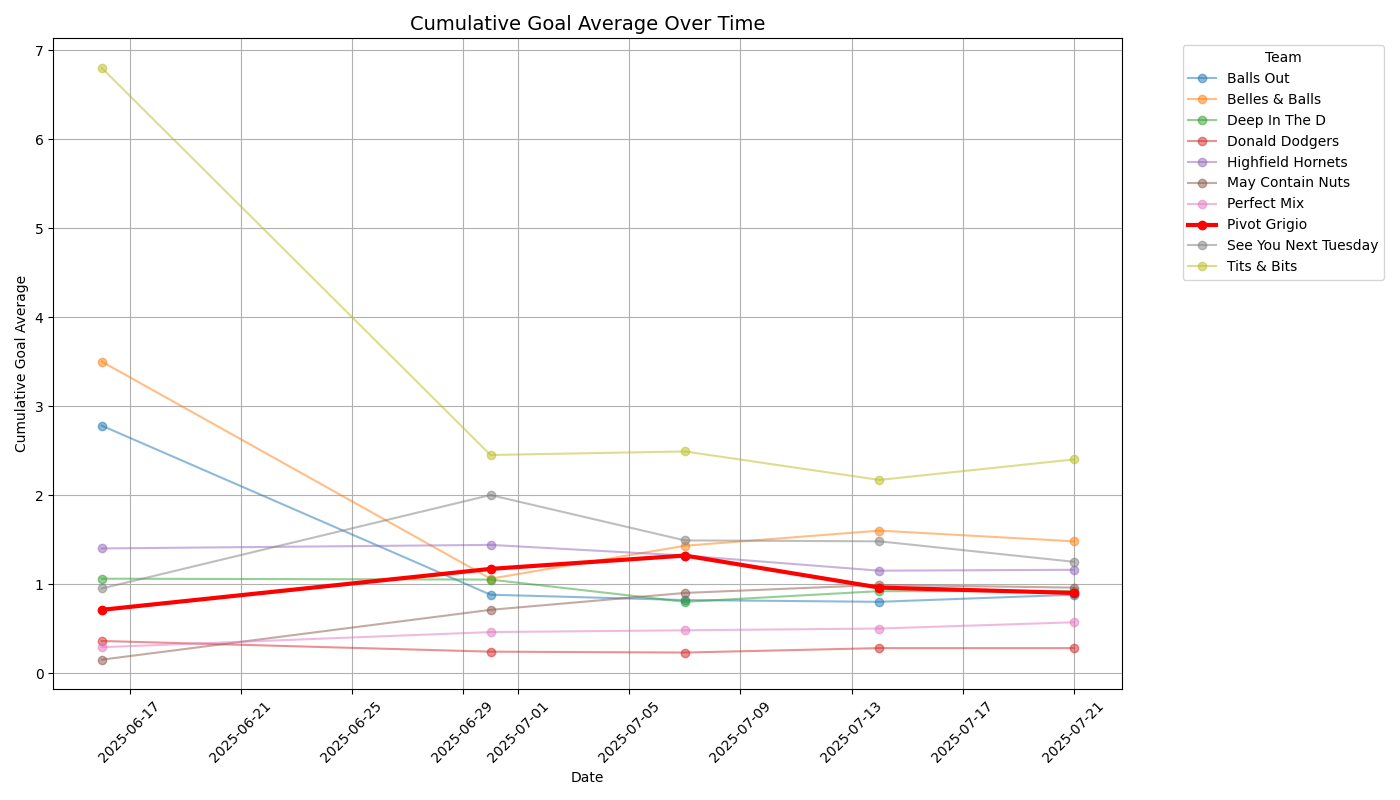
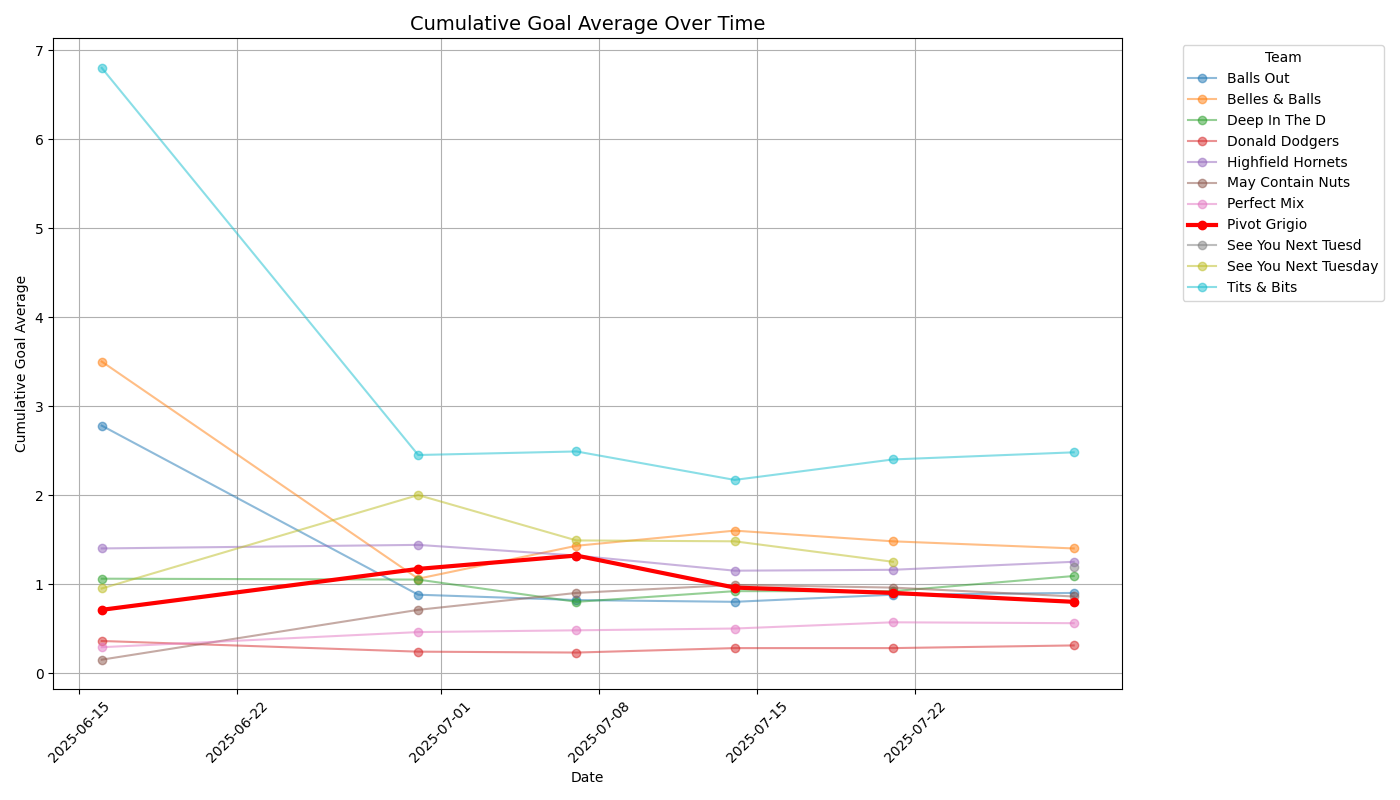
Update with monday results

diff --git a/league_data.py b/league_data.py
@@ -104,11 +104,30 @@ def get_all_league_data() -> pd.DataFrame:
         'Goal average': [2.40, 1.25, 1.16, 1.48, 0.96, 0.92, 0.88, 0.90, 0.57, 0.28],
         'Points': [35, 27, 26, 25, 24, 18, 18, 13, 9, 2]
     }
+    
+    # New data from the provided image (29/07/2025)
+    data6 = {
+        'Position': [1, 2, 3, 4, 5, 6, 7, 8, 9, 10],
+        'Team': ['Tits & Bits', 'Highfield Hornets', 'Belles & Balls', 'See You Next Tuesd',
+                 'Deep In The D', 'May Contain Nuts', 'Balls Out', 'Pivot Grigio',
+                 'Perfect Mix', 'Donald Dodgers'],
+        'Played': [8, 8, 8, 8, 8, 8, 8, 8, 8, 8],
+        'Won': [8, 5, 5, 5, 5, 4, 3, 3, 1, 0],
+        'Lost': [0, 2, 2, 3, 3, 4, 5, 5, 7, 8],
+        'Drawn': [0, 1, 1, 0, 0, 0, 0, 0, 0, 0],
+        'Goals For': [265, 182, 216, 166, 171, 127, 157, 157, 98, 64],
+        'Goals Against': [107, 146, 154, 140, 157, 147, 175, 196, 174, 207],
+        'Goal Diff': [158, 36, 62, 26, 14, -20, -18, -39, -76, -143],
+        'Goal average': [2.48, 1.25, 1.40, 1.19, 1.09, 0.86, 0.90, 0.80, 0.56, 0.31],
+        'Points': [40, 31, 30, 29, 28, 24, 20, 18, 10, 2]
+    }
+
 
     df1 = create_dataframe(data1, '16/06/2025')
     df2 = create_dataframe(data2, '07/07/2025')
     df3 = create_dataframe(data3, '30/06/2025')
     df4 = create_dataframe(data4, '14/07/2025')
     df5 = create_dataframe(data5, '21/07/2025')
+    df6 = create_dataframe(data6, '29/07/2025')
 
-    return pd.concat([df1, df2, df3, df4, df5], ignore_index=True)
+    return pd.concat([df1, df2, df3, df4, df5, df6], ignore_index=True)
